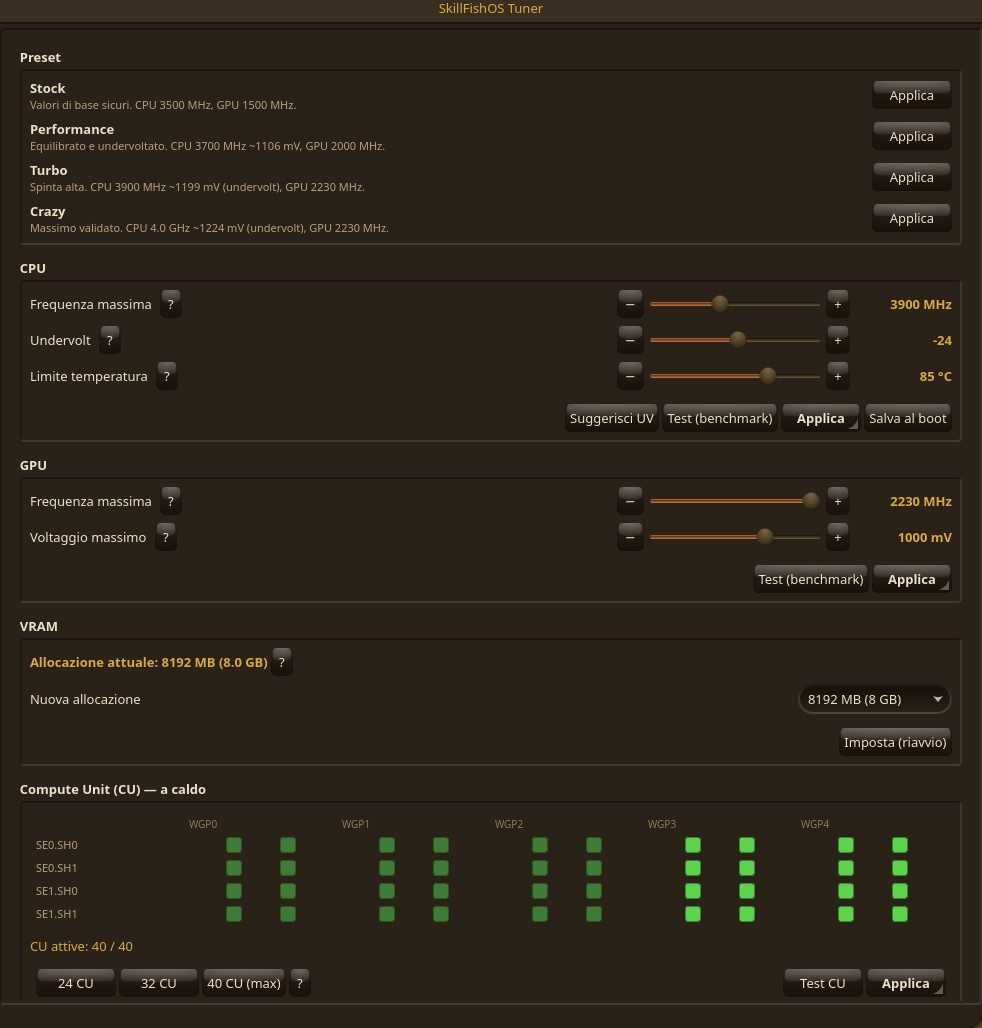
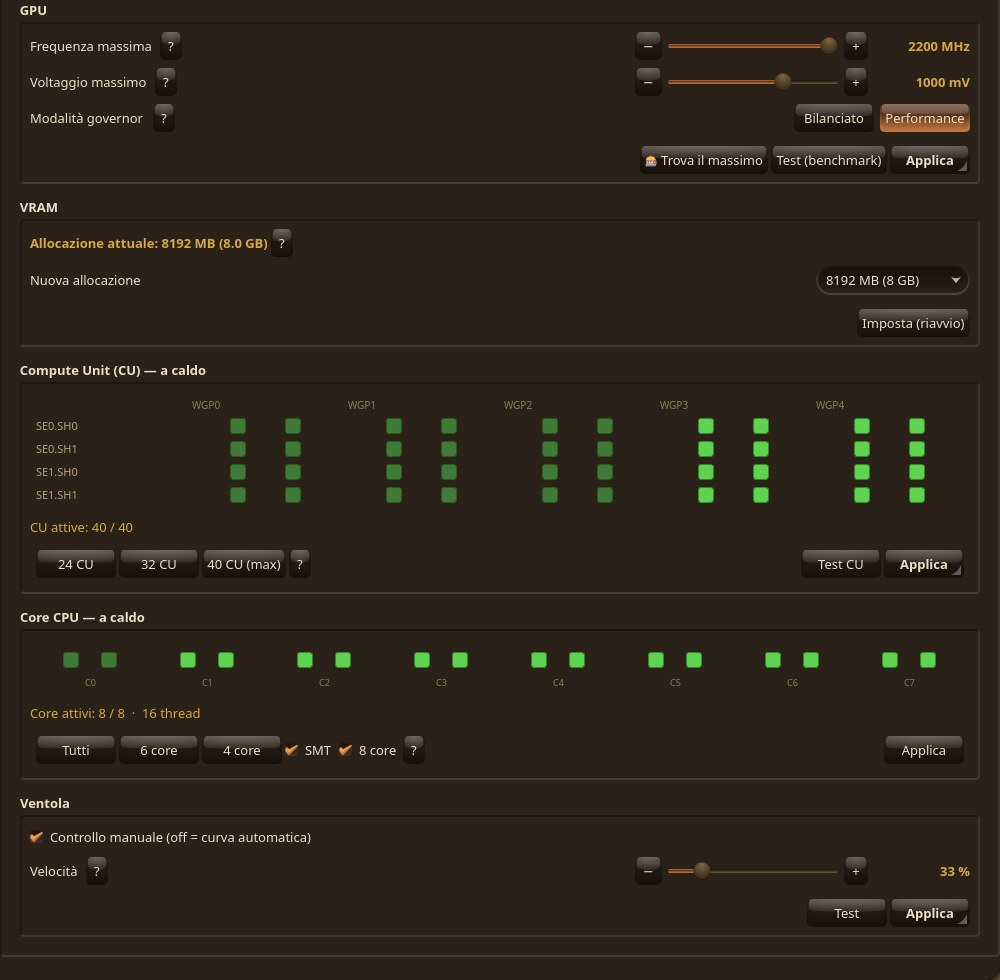
Site: news for 26.06.4, statistics every 30 minutes and split by version
News. 26.06.4 is announced in all four languages — Italian, English, Polish
and Ukrainian — and the 26.06.3 entry now carries a withdrawal notice instead
of standing there as if it were still the version to install. The site was
offering 26.06.4 for download while the news page still presented 26.06.3 as
the release.

Statistics. The SourceForge figures were cached for one hour, and the
all-time total for six; the per-file collector on the container ran once a
day. On a day when downloads actually move — a video, an article — a page that
is six hours stale is a page that is wrong. Everything is now half an hour,
including the systemd timer.

Downloads are also split by SkillFishOS version. go.php derives the version
from the SourceForge URL rather than repeating it, so a release cannot end up
counted under the previous version because someone updated one place and not
the other. Clicks recorded before today have no version and are shown as
exactly that, not attributed by guesswork.

Gallery. Two entries labelled "live Compute Units" and "presets, governor and
wizards" both showed the top of the same window, and the first image was old
enough to advertise 2230 MHz presets that no longer exist. It is replaced with
the lower half of the current window: the CU grid, the eight unlocked CPU
cores, the VRAM allocation and the fan control, none of which appeared
anywhere on the site.

Also adds scripts/pubblica-sito.py, which was not in the repository at all —
[…]

diff --git a/website/src/news.ts b/website/src/news.ts
@@ -168,16 +168,33 @@ export interface Post {
 
 export const news: Post[] = [
   {
+    data: '2026-08-17',
+    quando: { it: '17 agosto 2026', en: '17 August 2026', pl: '17 sierpnia 2026', uk: '17 серпня 2026' },
+    etichetta: { it: 'release', en: 'release', pl: 'wydanie', uk: 'реліз' },
+    titolo: {
+      it: 'SkillFishOS 26.06.4 «Aetherium»',
+      en: 'SkillFishOS 26.06.4 “Aetherium”',
+      pl: 'SkillFishOS 26.06.4 „Aetherium”',
+      uk: 'SkillFishOS 26.06.4 «Aetherium»',
+    },
+    testo: {
+      it: "Due difetti potevano impedire all'installazione di arrivare in fondo su una BC-250 vera. Adesso non ci sono più.<br><br>Il primo: lo sblocco degli otto core scriveva la maschera nella SMU e <strong>riavviava la scheda</strong>, anche dentro la sessione live. Se capitava mentre l'installatore stava copiando, l'installazione moriva lì. Adesso lo sblocco è disattivato di partenza e si chiede dal Tuner.<br><br>Il secondo: installando su <strong>Btrfs</strong> il sistema poteva non avviarsi, con <code>error: premature end of file</code> al prompt di GRUB. L'installatore copiava con <code>rsync -aHAXS</code> e il kernel arrivava a destinazione con un buco in coda; su Btrfs un buco non ha extent, e GRUB si ferma lì. Linux quel file lo legge benissimo, ed è per questo che non sembrava esserci niente di storto.<br><br>Corretti anche: il controllo del disco chiedeva 10 GiB quando al sistema ne servono 15, l'edizione BC-250 avviava il kernel <em>generico</em>, e le voci Safe Mode e Text Mode facevano esattamente la stessa cosa della voce normale.<br><br><strong>Le immagini 26.06.x precedenti sono state ritirate.</strong> Erano costruite clonando la nostra scheda di sviluppo e si portavano dietro file che appartenevano a quella macchina, fra cui un'identità di rete privata e una chiave di firma dei moduli, identiche su ogni installazione. Se ne hai una copia, cancellala. La 26.06.4 viene costruita con un passaggio che sposta via ogni file legato alla macchina e <strong>si rifiuta di produrre l'immagine</strong> se anche uno solo di quelli è ancora al suo posto.",
+      en: "Two defects could stop the installation from finishing on a real BC-250. They are gone.<br><br>The first: the eight-core unlock wrote the SMU core mask and <strong>rebooted the board</strong>, including inside the live session. If that landed while the installer was copying, the installation died. The unlock is now off by default and opt-in from the Tuner.<br><br>The second: installing onto <strong>Btrfs</strong> could produce a system that would not boot, with <code>error: premature end of file</code> at the GRUB prompt. The installer copied with <code>rsync -aHAXS</code> and the kernel image landed with a hole at the tail; on Btrfs a hole has no extent, so GRUB stops there. Linux reads that file perfectly, which is why nothing looked wrong.<br><br>Also fixed: the disk check asked for 10 GiB when the system needs 15, the BC-250 edition booted the <em>generic</em> kernel, and Safe Mode and Text Mode did exactly the same thing as the normal boot entry.<br><br><strong>Every earlier 26.06.x image has been withdrawn.</strong> They were built by cloning our development board and carried files belonging to that machine — among them a private network identity and a module-signing key, identical on every installation. If you kept a copy, please delete it. 26.06.4 is built with a step that moves every per-machine file out of the way and <strong>refuses to produce an image</strong> if any of them is still in place.",
+      pl: "Dwie usterki mogły uniemożliwić dokończenie instalacji na prawdziwym BC-250. Już ich nie ma.<br><br>Pierwsza: odblokowanie ośmiu rdzeni zapisywało maskę rdzeni w SMU i <strong>ponownie uruchamiało płytę</strong> — również w sesji live. Jeśli trafiło to w moment kopiowania plików, instalacja umierała. Teraz odblokowanie jest domyślnie wyłączone i włącza się je z poziomu Tunera.<br><br>Druga: instalacja na <strong>Btrfs</strong> mogła dać system, który się nie uruchamia, z komunikatem <code>error: premature end of file</code> w GRUB-ie. Instalator kopiował przez <code>rsync -aHAXS</code>, a obraz jądra trafiał na dysk z dziurą na końcu; na Btrfs dziura nie ma ekstentu, więc GRUB zatrzymuje się w tym miejscu. Linux czyta ten plik bez problemu — dlatego nic nie wyglądało podejrzanie.<br><br>Poprawione też: instalator wymagał 10 GiB, choć system potrzebuje 15; edycja BC-250 uruchamiała jądro <em>generic</em>; a pozycje Safe Mode i Text Mode robiły dokładnie to samo co zwykły wpis startowy.<br><br><strong>Wszystkie wcześniejsze obrazy 26.06.x zostały wycofane.</strong> Powstawały przez sklonowanie naszej płyty deweloperskiej i zawierały pliki należące do tamtej maszyny — między innymi prywatną tożsamość sieciową i klucz podpisujący moduły, identyczne w każdej instalacji. Jeśli masz kopię, usuń ją. 26.06.4 budowana jest z krokiem, który odsuwa każdy plik przypisany do maszyny i <strong>odmawia zbudowania obrazu</strong>, jeśli choć jeden z nich został na miejscu.",
+      uk: "Дві вади могли завадити встановленню дійти до кінця на справжній BC-250. Їх більше немає.<br><br>Перша: розблокування восьми ядер записувало маску ядер у SMU і <strong>перезавантажувало плату</strong> — зокрема й у live-сеансі. Якщо це збігалося з копіюванням файлів, встановлення обривалося. Тепер розблокування типово вимкнене й вмикається з Tuner.<br><br>Друга: встановлення на <strong>Btrfs</strong> могло дати систему, яка не завантажується, з <code>error: premature end of file</code> у GRUB. Встановлювач копіював через <code>rsync -aHAXS</code>, і образ ядра потрапляв на диск із діркою в кінці; на Btrfs дірка не має екстента, тож GRUB зупиняється саме там. Linux читає цей файл бездоганно — тому нічого не виглядало підозрілим.<br><br>Також виправлено: перевірка диска вимагала 10 ГіБ, хоча системі потрібно 15; видання BC-250 завантажувало <em>загальне</em> ядро; а пункти Safe Mode і Text Mode робили те саме, що й звичайний пункт завантаження.<br><br><strong>Усі попередні образи 26.06.x відкликано.</strong> Їх збирали клонуванням нашої плати розробки, і вони несли файли тієї машини — серед них приватну мережеву ідентичність і ключ підписування модулів, однакові на кожному встановленні. Якщо ви зберегли копію, вилучіть її. 26.06.4 збирається з кроком, який прибирає кожен файл, прив'язаний до машини, і <strong>відмовляється створювати образ</strong>, якщо хоч один із них лишився на місці.",
+    },
+  },
+  {
     data: '2026-08-11',
     quando: { it: '11 agosto 2026', en: '11 August 2026', pl: '11 sierpnia 2026', uk: '11 серпня 2026' },
-    etichetta: { it: 'release', en: 'release', pl: 'wydanie', uk: 'реліз' },
+    etichetta: { it: 'ritirata', en: 'withdrawn', pl: 'wycofane', uk: 'відкликано' },
     titolo: {
       it: 'SkillFishOS 26.06.3 «Aetherium»',
       en: 'SkillFishOS 26.06.3 “Aetherium”',
     },
     testo: {
-      it: "Due edizioni, <strong>BC-250</strong> e <strong>Generic</strong>, per la scheda AMD e per qualsiasi PC o macchina virtuale x86-64.<br><br>La lingua che scegli vale adesso <strong>ovunque</strong>: interfaccia, schermata di accesso, pannello web e anche le diapositive dell'installer, che prima restavano in inglese. Italiano, inglese, polacco e ucraino, e se una traduzione manca esce l'inglese.<br><br>Sotto: kernel <strong>7.1.7</strong> con lo sblocco delle 40 Compute Unit e degli otto core, installazione su Btrfs con punti di ripristino attivi dal primo avvio, e AI locale su GPU. Un'installazione nuova parte con <strong>tutti i servizi a posto</strong>.<br><br>L'edizione <strong>Slim</strong> non esce più come immagine: il kernel slim resta nel repository per chi lo vuole.",
-      en: "Two editions, <strong>BC-250</strong> and <strong>Generic</strong>, for the AMD board and for any x86-64 PC or virtual machine.<br><br>The language you choose now applies <strong>everywhere</strong>: interface, login screen, web panel and the installer slideshow too, which used to stay in English. Italian, English, Polish and Ukrainian — and if a translation is missing, you get English.<br><br>Underneath: kernel <strong>7.1.7</strong> with the 40 Compute Unit unlock and the eight-core unlock, Btrfs installs with restore points live from the first boot, and on-device AI on the GPU. A fresh install comes up with <strong>every service healthy</strong>.<br><br>The <strong>Slim</strong> edition is no longer shipped as an image: the slim kernel stays in the repository for anyone who wants it.",
+      it: "<strong>⚠ Questa immagine è stata ritirata: usa la 26.06.4.</strong> Aveva due difetti che potevano bloccare l'installazione, e portava con sé file privati della nostra scheda di costruzione.<br><br>Due edizioni, <strong>BC-250</strong> e <strong>Generic</strong>, per la scheda AMD e per qualsiasi PC o macchina virtuale x86-64.<br><br>La lingua che scegli vale adesso <strong>ovunque</strong>: interfaccia, schermata di accesso, pannello web e anche le diapositive dell'installer, che prima restavano in inglese. Italiano, inglese, polacco e ucraino, e se una traduzione manca esce l'inglese.<br><br>Sotto: kernel <strong>7.1.7</strong> con lo sblocco delle 40 Compute Unit e degli otto core, installazione su Btrfs con punti di ripristino attivi dal primo avvio, e AI locale su GPU. Un'installazione nuova parte con <strong>tutti i servizi a posto</strong>.<br><br>L'edizione <strong>Slim</strong> non esce più come immagine: il kernel slim resta nel repository per chi lo vuole.",
+      en: "<strong>⚠ This image has been withdrawn: please use 26.06.4.</strong> It had two defects that could stop an installation, and it carried private files from our build board.<br><br>Two editions, <strong>BC-250</strong> and <strong>Generic</strong>, for the AMD board and for any x86-64 PC or virtual machine.<br><br>The language you choose now applies <strong>everywhere</strong>: interface, login screen, web panel and the installer slideshow too, which used to stay in English. Italian, English, Polish and Ukrainian — and if a translation is missing, you get English.<br><br>Underneath: kernel <strong>7.1.7</strong> with the 40 Compute Unit unlock and the eight-core unlock, Btrfs installs with restore points live from the first boot, and on-device AI on the GPU. A fresh install comes up with <strong>every service healthy</strong>.<br><br>The <strong>Slim</strong> edition is no longer shipped as an image: the slim kernel stays in the repository for anyone who wants it.",
     },
   },
   {

diff --git a/website/public/stats.php b/website/public/stats.php
@@ -274,6 +274,7 @@ echo '</table></div>';
 //     davvero, compresi quelli di chi arriva da fuori dal nostro sito.
 // Il primo numero e' sempre piu' basso: chi cambia idea a meta' non conta.
 $dl_tot = array(); $dl_day = array(); $dl_paese = array(); $dl_lingua = array();
+$dl_ver = array();
 try {
     $db->exec('CREATE TABLE IF NOT EXISTS dl(
         id INTEGER PRIMARY KEY AUTOINCREMENT,
@@ -291,6 +292,12 @@ try {
                             ORDER BY c DESC LIMIT 8')->fetchAll();
     $dl_lingua = $db->query('SELECT lang, COUNT(*) c FROM dl WHERE bot=0 AND lang<>""
                              GROUP BY lang ORDER BY c DESC')->fetchAll();
+    // Per versione. La colonna e' arrivata il 17/08/2026: i clic precedenti
+    // hanno ver="" e restano contati a parte, dichiarati per quello che sono,
+    // invece di essere attribuiti alla versione sbagliata.
+    $dl_ver = $db->query('SELECT ver, kind, COUNT(*) c, COUNT(DISTINCT vis) u
+                          FROM dl WHERE bot=0 GROUP BY ver, kind
+                          ORDER BY ver DESC, c DESC')->fetchAll();
 } catch (Throwable $e) { }
 
 $etichetta = array(
@@ -325,6 +332,45 @@ if ($dl_day) {
     echo '</table>';
 }
 
+// --- per versione ------------------------------------------------------------
+// Quale versione sta scaricando la gente adesso. Serve per capire quanto in
+// fretta una nuova immagine sostituisce la precedente, e - quando ne ritiriamo
+// una - se qualcuno la sta ancora prendendo da una pagina in cache o da un
+// segnalibro.
+if ($dl_ver) {
+    $per_ver = array();
+    foreach ($dl_ver as $r) {
+        $v = $r['ver'] !== '' ? $r['ver'] : '?';
+        if (!isset($per_ver[$v])) $per_ver[$v] = array('c' => 0, 'u' => 0, 'k' => array());
+        $per_ver[$v]['c'] += (int)$r['c'];
+        $per_ver[$v]['u'] += (int)$r['u'];
+        $per_ver[$v]['k'][$r['kind']] = (int)$r['c'];
+    }
+    krsort($per_ver);
+    $vmax = 0; foreach ($per_ver as $d) $vmax = max($vmax, $d['c']);
+    echo '<h3 style="margin-top:18px">Per versione di SkillFishOS '
+       . '<span class="muted" style="font-weight:400">· clic sui nostri pulsanti</span></h3>';
+    echo '<table><tr><th>Versione</th><th>Cosa</th><th class="r">Clic</th><th class="r">Persone</th></tr>';
+    foreach ($per_ver as $v => $d) {
+        arsort($d['k']);
+        $pezzi = array();
+        foreach ($d['k'] as $k => $n) $pezzi[] = h($k) . ' ' . $n;
+        $eti = $v === '?'
+            ? '<span class="muted">prima del 17/08</span>'
+            : h($v);
+        echo '<tr><td>' . $eti
+           . '<div class="bar" style="width:' . ($vmax ? round(100 * $d['c'] / $vmax) : 0) . '%;margin-top:4px"></div></td>'
+           . '<td class="muted" style="font-size:.82rem">' . implode(' · ', $pezzi) . '</td>'
+           . '<td class="r">' . $d['c'] . '</td>'
+           . '<td class="r muted">' . $d['u'] . '</td></tr>';
+    }
+    echo '</table>';
+    if (isset($per_ver['?']))
+        echo '<p class="muted" style="font-size:.8rem;margin-top:8px">'
+           . 'I clic segnati "prima del 17/08" sono stati registrati quando ancora non '
+           . 'annotavamo la versione: non si possono attribuire a posteriori senza tirare a indovinare.</p>';
+}
+
 if ($dl_paese || $dl_lingua) {
     echo '<h3 style="margin-top:18px">Da dove, e in che lingua</h3><table><tr><th>Paese</th><th class="r">Download</th></tr>';
     foreach ($dl_paese as $r)
@@ -338,12 +384,14 @@ if ($dl_paese || $dl_lingua) {
 echo '</div>';
 
 // --- i numeri veri, presi da SourceForge -------------------------------------
-// Si interroga una volta all'ora e si tiene in cache: l'API e' pubblica ma non
-// va martellata, e questa pagina si ricarica spesso.
+// Si interroga ogni mezz'ora e si tiene in cache: l'API e' pubblica ma non va
+// martellata, e questa pagina si ricarica spesso. Mezz'ora e' la stessa cadenza
+// del raccoglitore sul container, cosi' i due numeri non si contraddicono.
+define('SF_CACHE', 1800);
 $sf = null; $sf_err = '';
 try {
     $cache = sfstats_dir() . '/sf-downloads.json';
-    if (is_file($cache) && (time() - filemtime($cache) < 3600)) {
+    if (is_file($cache) && (time() - filemtime($cache) < SF_CACHE)) {
         $sf = json_decode((string)file_get_contents($cache), true);
     } else {
         $url = 'https://sourceforge.net/projects/skillfishos/files/stats/json'
@@ -360,13 +408,14 @@ try {
 // --- il totale da sempre -----------------------------------------------------
 // L'API accetta qualunque data d'inizio e taglia da sola al primo caricamento,
 // quindi partiamo da prima che il progetto esistesse e lasciamo fare a lei.
-// Si aggiorna ogni sei ore: e' un numero che cresce piano, non ha senso
-// richiederlo a ogni ricarica della pagina.
+// Anche questo ogni mezz'ora: prima erano sei ore, e nei giorni in cui i
+// download si muovono davvero - un video, un articolo - sei ore di ritardo
+// vogliono dire guardare una pagina che dice il falso.
 $sf_tot = null; $sf_dal = '';
 try {
     $cache_tot = sfstats_dir() . '/sf-downloads-sempre.json';
     $d = null;
-    if (is_file($cache_tot) && (time() - filemtime($cache_tot) < 21600)) {
+    if (is_file($cache_tot) && (time() - filemtime($cache_tot) < SF_CACHE)) {
         $d = json_decode((string)file_get_contents($cache_tot), true);
     } else {
         $url = 'https://sourceforge.net/projects/skillfishos/files/stats/json'
@@ -463,8 +512,12 @@ if ($det) {
         if ($zero) echo '<p class="muted" style="font-size:.82rem;margin-top:8px">'
                       . $zero . ' file non ancora scaricati da nessuno.</p>';
     }
+    $eta = time() - (int)$det['aggiornato'];
     echo '<p class="muted" style="font-size:.8rem;margin-top:10px">Dettaglio aggiornato il '
-       . h(date('d/m/Y \a\l\l\e H:i', (int)$det['aggiornato'])) . ', una volta al giorno.</p>';
+       . h(date('d/m/Y \a\l\l\e H:i', (int)$det['aggiornato'])) . ', ogni 30 minuti'
+       . ($eta > 7200 ? ' <strong>(fermo da ' . round($eta / 3600) . ' ore: il raccoglitore '
+                      . 'sul container non sta girando)</strong>' : '')
+       . '.</p>';
 }
 
 echo '<h3 style="margin-top:18px">Ultimi 30 giorni <span class="muted" style="font-weight:400">· da dove arrivano</span></h3>';

diff --git a/scripts/pubblica-sito.py b/scripts/pubblica-sito.py
@@ -1,0 +1,118 @@
+# -*- coding: utf-8 -*-
+u"""Pubblica il sito costruito su OVH, via SFTP.
+
+⚠ PRIMA di questo va lanciato C:\\sfweb\\build.ps1, non "npm run build" a mano:
+dentro Dropbox il filtro dei file mangia parte della cartella prodotta e il sito
+finisce online senza CSS. build.ps1 costruisce fuori da Dropbox
+(%TEMP%\\skillfishos-website-dist) proprio per questo.
+
+⚠ QUESTO SCRIPT NON CANCELLA NIENTE sul server. Caricare e' sicuro, cancellare
+no: un errore di percorso qui svuoterebbe il sito. Quando qualcosa va tolto
+davvero, lo si toglie a mano sapendo cosa si sta facendo.
+
+Alla fine si controlla quello che vede un visitatore: la pagina, il CSS e una
+pagina per ogni lingua. Un caricamento andato a buon fine non e' la stessa cosa
+di un sito che funziona.
+"""
+import os
+import pathlib
+import posixpath
+import sys
+import urllib.request
+
+import paramiko
+
+DIST = pathlib.Path(os.environ.get("TEMP", "/tmp")) / "skillfishos-website-dist"
+CRED = pathlib.Path(os.path.expanduser("~")) / ".skillfishos" / "deploy.env"
+
+if not DIST.is_dir():
+    sys.exit("non trovo la cartella costruita: %s\nlancia prima C:\\sfweb\\build.ps1" % DIST)
+
+# controllo di sanita': se il CSS non c'e', la costruzione e' monca e caricarla
+# vorrebbe dire mettere online un sito senza grafica.
+css = list((DIST / "_astro").glob("*.css")) if (DIST / "_astro").is_dir() else []
+html = list(DIST.rglob("*.html"))
+print("   da caricare: %d pagine, %d fogli di stile" % (len(html), len(css)))
+if not css or len(html) < 50:
+    sys.exit("   costruzione incompleta: non pubblico")
+
+dati = {}
+for riga in CRED.read_text(encoding="utf-8").splitlines():
+    riga = riga.strip()
+    if "=" in riga and not riga.startswith("#"):
+        k, v = riga.split("=", 1)
+        dati[k.strip()] = v.strip()
+
+host = dati.get("OVH_SFTP_HOST", "ssh.cluster129.hosting.ovh.net")
+base = dati.get("OVH_FTP_DIR", "www").rstrip("/")
+t = paramiko.Transport((host, 22))
+t.connect(username=dati["OVH_FTP_USER"], password=dati["OVH_FTP_PASS"])
+s = paramiko.SFTPClient.from_transport(t)
+print("   collegato a %s, cartella %s" % (host, base))
+
+fatte = set()
+
+
+def assicura(d):
+    """mkdir -p, ma via SFTP e senza chiedere due volte la stessa cartella"""
+    if d in fatte or d in ("", ".", "/"):
+        return
+    assicura(posixpath.dirname(d))
+    try:
+        s.stat(d)
+    except IOError:
+        try:
+            s.mkdir(d)
+        except IOError:
+            pass
+    fatte.add(d)
+
+
+caricati = saltati = 0
+byte = 0
+for p in sorted(DIST.rglob("*")):
+    if p.is_dir():
+        continue
+    rel = p.relative_to(DIST).as_posix()
+    remoto = base + "/" + rel
+    dim = p.stat().st_size
+    # se e' identico per dimensione e non piu' vecchio, si salta: sono oltre
+    # duecento file e la linea verso OVH non e' veloce
+    try:
+        st = s.stat(remoto)
+        if st.st_size == dim and st.st_mtime >= p.stat().st_mtime:
+            saltati += 1
+            continue
+    except IOError:
+        pass
+    assicura(posixpath.dirname(remoto))
+    s.put(str(p), remoto)
+    caricati += 1
+    byte += dim
+
+print("   caricati %d file (%.1f MB), gia' aggiornati %d" % (caricati, byte / 1e6, saltati))
+s.close()
+t.close()
+
+# --- e adesso quello che vede un visitatore ---------------------------------
+print("\n   controllo dal vivo:")
+prove = ["https://skillfishos.com/",
+         "https://skillfishos.com/news",
+         "https://skillfishos.com/en/news",
+         "https://skillfishos.com/pl/news",
+         "https://skillfishos.com/uk/news",
+         "https://skillfishos.com/gallery",
+         "https://skillfishos.com/download"]
+prove += ["https://skillfishos.com/_astro/" + c.name for c in css]
+guasti = 0
+for u in prove:
+    try:
+        r = urllib.request.urlopen(urllib.request.Request(
+            u, headers={"User-Agent": "SkillFishOS-deploy"}), timeout=20)
+        code, n = r.getcode(), len(r.read())
+    except Exception as e:
+        code, n = getattr(e, "code", 0), 0
+    if code != 200:
+        guasti += 1
+    print("     %-3s %8d  %s" % (code or "err", n, u.replace("https://skillfishos.com", "")or "/"))
+sys.exit(1 if guasti else 0)

diff --git a/website/public/go.php b/website/public/go.php
@@ -13,6 +13,12 @@ require __DIR__ . '/_sfstats.php';
 
 $SF = 'https://sourceforge.net/projects/skillfishos/files/26.06.4-Aetherium/';
 
+// La versione si ricava dall'indirizzo invece di scriverla una seconda volta:
+// al prossimo rilascio si cambia $SF e basta, e non puo' succedere che i clic
+// vengano contati sotto la versione precedente perche' qualcuno ha aggiornato
+// un posto solo.
+$VERSIONE = preg_match('#/files/([0-9]+\.[0-9]+\.[0-9]+)-#', $SF, $mv) ? $mv[1] : '';
+
 // ⚠ Internet Archive e i torrent sono stati RITIRATI il 16/08/2026 insieme alle
 // immagini 26.06.x: quelle immagini contenevano file privati della macchina di
 // costruzione. Le voci sono state tolte da questa mappa, non lasciate a puntare
@@ -64,6 +70,14 @@ try {
     $db->exec('CREATE INDEX IF NOT EXISTS idx_dl_day ON dl(day)');
     $db->exec('CREATE INDEX IF NOT EXISTS idx_dl_file ON dl(file)');
 
+    // La colonna della versione e' arrivata dopo, quindi va aggiunta al volo
+    // sulle installazioni che hanno gia' la tabella. ALTER TABLE fallisce se
+    // c'e' gia': si ignora, e' il modo piu' semplice di dire "assicurati che
+    // esista" in SQLite.
+    try { $db->exec('ALTER TABLE dl ADD COLUMN ver TEXT NOT NULL DEFAULT ""'); }
+    catch (Throwable $e) { }
+    $db->exec('CREATE INDEX IF NOT EXISTS idx_dl_ver ON dl(ver)');
+
     // da che pagina arrivava: ci dice in che lingua naviga chi scarica
     $lang = '';
     $ref = (string)($_SERVER['HTTP_REFERER'] ?? '');
@@ -76,13 +90,13 @@ try {
           : ((strpos($f, 'sha') === 0) ? 'sha' : (($f === 'note' || $f === 'tutti') ? 'altro' : 'iso'))));
 
     list($cc, $cn) = sfstats_country();
-    $st = $db->prepare('INSERT INTO dl(ts,day,file,kind,vis,bot,country,cname,lang)
-                        VALUES(:ts,:day,:f,:k,:v,:b,:cc,:cn,:l)');
+    $st = $db->prepare('INSERT INTO dl(ts,day,file,kind,vis,bot,country,cname,lang,ver)
+                        VALUES(:ts,:day,:f,:k,:v,:b,:cc,:cn,:l,:ver)');
     $st->execute(array(
         ':ts' => time(), ':day' => gmdate('Y-m-d'),
         ':f' => $f, ':k' => $kind,
         ':v' => sfstats_visitor($ua), ':b' => sfstats_is_bot($ua),
-        ':cc' => $cc, ':cn' => $cn, ':l' => $lang,
+        ':cc' => $cc, ':cn' => $cn, ':l' => $lang, ':ver' => $VERSIONE,
     ));
 } catch (Throwable $e) {
     // un problema con le statistiche non deve mai impedire un download
